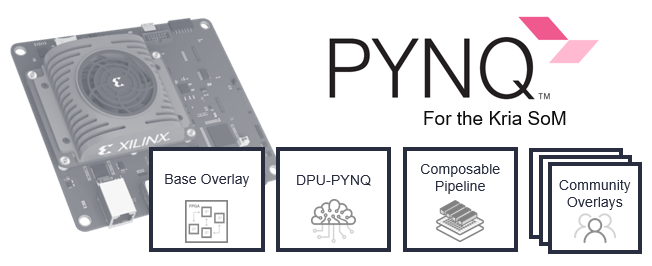
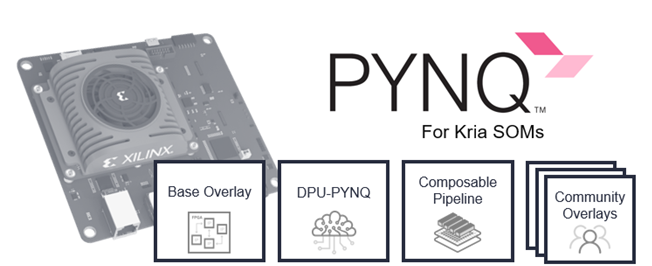
Update README.md with Kria text/capitalizations fixes

Changed region(s): [[0.0, 0.0602, 1.0, 0.9925], [0.092, 0.5113, 0.1227, 0.5414]]

diff --git a/README.md b/README.md
@@ -1,6 +1,6 @@
 ![](./kriapynq.png)
 
-This repository contains the install scripts needed to add PYNQ to your Kria SoM's official Ubuntu SDCard Image.  From that installation, a complete Python and Jupyter environment is installed on the Kria SoM along with multiple programmable logic overlays all ready to use.  
+This repository contains the install scripts needed to add PYNQ to your Kria KV260 Vision AI Starter Kit's official Ubuntu SDCard Image.  From that installation, a complete Python and Jupyter environment is installed on the Kria SOM along with multiple programmable logic overlays all ready to use.  
 
 ## Installation
 
